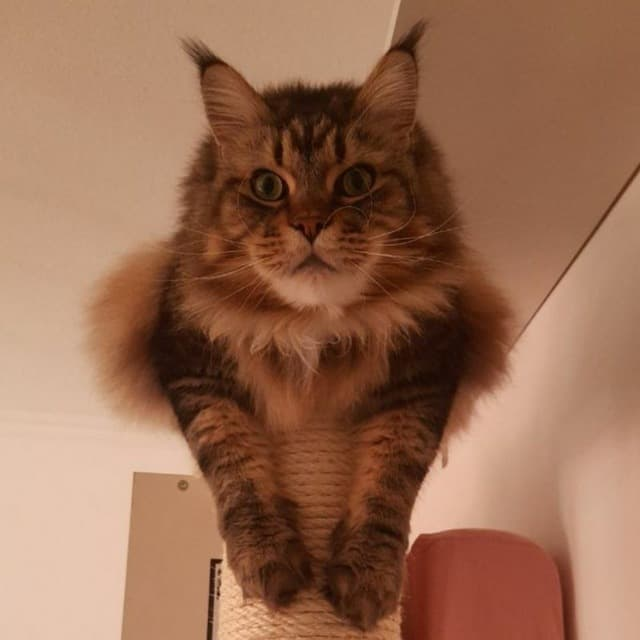
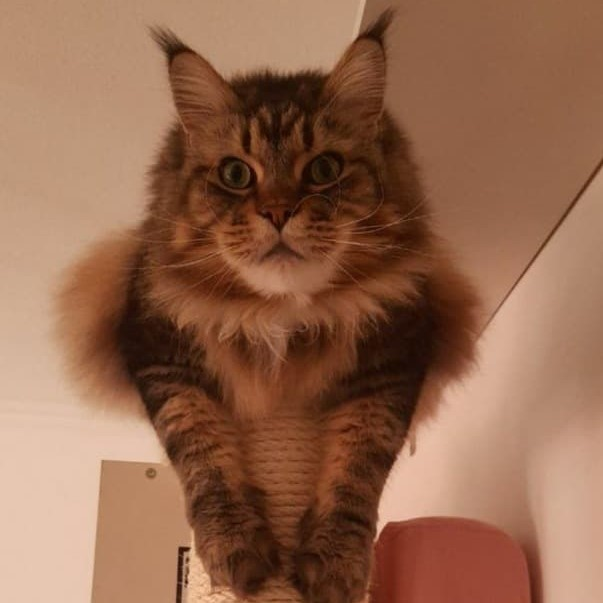
fix cats

diff --git a/_pages/.ipynb_checkpoints/cats-checkpoint.md b/_pages/.ipynb_checkpoints/cats-checkpoint.md
@@ -5,35 +5,35 @@ author_profile: true
 ---
 
 <p float="left">
-<img src="..\images\cat(2).jpg" alt="cat(2).jpg" width="200" height="200"> <img src="..\images\cat(14).jpg" alt="cat(14).jpg" width="200" height="200"> <img src="..\images\cat(11).jpg" alt="cat(11).jpg" width="200" height="200"> 
+<img src="..\images\cat(2).jpg" alt="cat(2).jpg" width="250" height="250"> <img src="..\images\cat(14).jpg" alt="cat(14).jpg" width="250" height="250"> <img src="..\images\cat(11).jpg" alt="cat(11).jpg" width="250" height="250"> 
 </p>
 
 <p float="left">
-<img src="..\images\cat(15).jpg" alt="cat(15).jpg" width="200" height="200"> <img src="..\images\cat(32).jpg" alt="cat(32).jpg" width="200" height="200"> <img src="..\images\cat(16).jpg" alt="cat(16).jpg" width="200" height="200"> 
+<img src="..\images\cat(15).jpg" alt="cat(15).jpg" width="250" height="250"> <img src="..\images\cat(32).jpg" alt="cat(32).jpg" width="250" height="250"> <img src="..\images\cat(16).jpg" alt="cat(16).jpg" width="250" height="250"> 
 </p>
 
 <p float="left">
-<img src="..\images\cat(31a).jpg" alt="cat(31a).jpg" width="200" height="200"> <img src="..\images\cat(31).jpg" alt="cat(31).jpg" width="200" height="200"> <img src="..\images\cat(9).jpg" alt="cat(9).jpg" width="200" height="200"> 
+<img src="..\images\cat(31a).jpg" alt="cat(31a).jpg" width="250" height="250"> <img src="..\images\cat(31).jpg" alt="cat(31).jpg" width="250" height="250"> <img src="..\images\cat(9).jpg" alt="cat(9).jpg" width="250" height="250"> 
 </p>
 
 <p float="left">
-<img src="..\images\cat(29).jpg" alt="cat(29).jpg" width="200" height="200"> <img src="..\images\cat(28).jpg" alt="cat(28).jpg" width="200" height="200"> <img src="..\images\cat(27).jpg" alt="cat(27).jpg" width="200" height="200"> 
+<img src="..\images\cat(29).jpg" alt="cat(29).jpg" width="250" height="250"> <img src="..\images\cat(28).jpg" alt="cat(28).jpg" width="250" height="250"> <img src="..\images\cat(27).jpg" alt="cat(27).jpg" width="250" height="250"> 
 </p>
 
 <p float="left">
-<img src="..\images\cat(5).jpg" alt="cat(5).jpg" width="200" height="200"> <img src="..\images\cat(3).jpg" alt="cat(3).jpg" width="200" height="200"> <img src="..\images\cat(24).jpg" alt="cat(24).jpg" width="200" height="200">
+<img src="..\images\cat(5).jpg" alt="cat(5).jpg" width="250" height="250"> <img src="..\images\cat(3).jpg" alt="cat(3).jpg" width="250" height="250"> <img src="..\images\cat(24).jpg" alt="cat(24).jpg" width="250" height="250">
 </p>
 
 <p float="left">
-<img src="..\images\cat(20).jpg" alt="cat(20).jpg" width="200" height="200"> <img src="..\images\cat(19).jpg" alt="cat(19).jpg" width="200" height="200"> <img src="..\images\cat(17).jpg" alt="cat(17).jpg" width="200" height="200"> 
+<img src="..\images\cat(20).jpg" alt="cat(20).jpg" width="250" height="250"> <img src="..\images\cat(19).jpg" alt="cat(19).jpg" width="250" height="250"> <img src="..\images\cat(17).jpg" alt="cat(17).jpg" width="250" height="250"> 
 </p>
 
-<img src="..\images\cat(13).jpg" alt="cat(13).jpg" width="200" height="200"> <img src="..\images\cat(23).jpg" alt="cat(23).jpg" width="200" height="200"> <img src="..\images\cat(22).jpg" alt="cat(22).jpg" width="200" height="200"> </p>
+<img src="..\images\cat(13).jpg" alt="cat(13).jpg" width="250" height="250"> <img src="..\images\cat(23).jpg" alt="cat(23).jpg" width="250" height="250"> <img src="..\images\cat(22).jpg" alt="cat(22).jpg" width="250" height="250"> </p>
 
 <p float="left">
-<img src="..\images\cat(6).jpg" alt="cat(6).jpg" width="200" height="200"> <img src="..\images\cat(1).jpg" alt="cat(1).jpg" width="200" height="200"> <img src="..\images\cat(26).jpg" alt="cat(26).jpg" width="200" height="200">
+<img src="..\images\cat(6).jpg" alt="cat(6).jpg" width="250" height="250"> <img src="..\images\cat(1).jpg" alt="cat(1).jpg" width="250" height="250"> <img src="..\images\cat(26).jpg" alt="cat(26).jpg" width="250" height="250">
 </p>
 
 <p float="left">
-<img src="..\images\cat(25).jpg" alt="cat(25).jpg" width="200" height="200"> <img src="..\images\cat(7).jpg" alt="cat(7).jpg" width="200" height="200"> <img src="..\images\cat(10).jpg" alt="cat(10).jpg" width="200" height="200"> 
+<img src="..\images\cat(25).jpg" alt="cat(25).jpg" width="250" height="250"> <img src="..\images\cat(7).jpg" alt="cat(7).jpg" width="250" height="250"> <img src="..\images\cat(10).jpg" alt="cat(10).jpg" width="250" height="250"> 
 </p>

diff --git a/_pages/cats.md b/_pages/cats.md
@@ -5,35 +5,35 @@ author_profile: true
 ---
 
 <p float="left">
-<img src="..\images\cat(2).jpg" alt="cat(2).jpg" width="200" height="200"> <img src="..\images\cat(14).jpg" alt="cat(14).jpg" width="200" height="200"> <img src="..\images\cat(11).jpg" alt="cat(11).jpg" width="200" height="200"> 
+<img src="..\images\cat(2).jpg" alt="cat(2).jpg" width="250" height="250"> <img src="..\images\cat(14).jpg" alt="cat(14).jpg" width="250" height="250"> <img src="..\images\cat(11).jpg" alt="cat(11).jpg" width="250" height="250"> 
 </p>
 
 <p float="left">
-<img src="..\images\cat(15).jpg" alt="cat(15).jpg" width="200" height="200"> <img src="..\images\cat(32).jpg" alt="cat(32).jpg" width="200" height="200"> <img src="..\images\cat(16).jpg" alt="cat(16).jpg" width="200" height="200"> 
+<img src="..\images\cat(15).jpg" alt="cat(15).jpg" width="250" height="250"> <img src="..\images\cat(32).jpg" alt="cat(32).jpg" width="250" height="250"> <img src="..\images\cat(16).jpg" alt="cat(16).jpg" width="250" height="250"> 
 </p>
 
 <p float="left">
-<img src="..\images\cat(31a).jpg" alt="cat(31a).jpg" width="200" height="200"> <img src="..\images\cat(31).jpg" alt="cat(31).jpg" width="200" height="200"> <img src="..\images\cat(9).jpg" alt="cat(9).jpg" width="200" height="200"> 
+<img src="..\images\cat(31a).jpg" alt="cat(31a).jpg" width="250" height="250"> <img src="..\images\cat(31).jpg" alt="cat(31).jpg" width="250" height="250"> <img src="..\images\cat(9).jpg" alt="cat(9).jpg" width="250" height="250"> 
 </p>
 
 <p float="left">
-<img src="..\images\cat(29).jpg" alt="cat(29).jpg" width="200" height="200"> <img src="..\images\cat(28).jpg" alt="cat(28).jpg" width="200" height="200"> <img src="..\images\cat(27).jpg" alt="cat(27).jpg" width="200" height="200"> 
+<img src="..\images\cat(29).jpg" alt="cat(29).jpg" width="250" height="250"> <img src="..\images\cat(28).jpg" alt="cat(28).jpg" width="250" height="250"> <img src="..\images\cat(27).jpg" alt="cat(27).jpg" width="250" height="250"> 
 </p>
 
 <p float="left">
-<img src="..\images\cat(5).jpg" alt="cat(5).jpg" width="200" height="200"> <img src="..\images\cat(3).jpg" alt="cat(3).jpg" width="200" height="200"> <img src="..\images\cat(24).jpg" alt="cat(24).jpg" width="200" height="200">
+<img src="..\images\cat(5).jpg" alt="cat(5).jpg" width="250" height="250"> <img src="..\images\cat(3).jpg" alt="cat(3).jpg" width="250" height="250"> <img src="..\images\cat(24).jpg" alt="cat(24).jpg" width="250" height="250">
 </p>
 
 <p float="left">
-<img src="..\images\cat(20).jpg" alt="cat(20).jpg" width="200" height="200"> <img src="..\images\cat(19).jpg" alt="cat(19).jpg" width="200" height="200"> <img src="..\images\cat(17).jpg" alt="cat(17).jpg" width="200" height="200"> 
+<img src="..\images\cat(20).jpg" alt="cat(20).jpg" width="250" height="250"> <img src="..\images\cat(19).jpg" alt="cat(19).jpg" width="250" height="250"> <img src="..\images\cat(17).jpg" alt="cat(17).jpg" width="250" height="250"> 
 </p>
 
-<img src="..\images\cat(13).jpg" alt="cat(13).jpg" width="200" height="200"> <img src="..\images\cat(23).jpg" alt="cat(23).jpg" width="200" height="200"> <img src="..\images\cat(22).jpg" alt="cat(22).jpg" width="200" height="200"> </p>
+<img src="..\images\cat(13).jpg" alt="cat(13).jpg" width="250" height="250"> <img src="..\images\cat(23).jpg" alt="cat(23).jpg" width="250" height="250"> <img src="..\images\cat(22).jpg" alt="cat(22).jpg" width="250" height="250"> </p>
 
 <p float="left">
-<img src="..\images\cat(6).jpg" alt="cat(6).jpg" width="200" height="200"> <img src="..\images\cat(1).jpg" alt="cat(1).jpg" width="200" height="200"> <img src="..\images\cat(26).jpg" alt="cat(26).jpg" width="200" height="200">
+<img src="..\images\cat(6).jpg" alt="cat(6).jpg" width="250" height="250"> <img src="..\images\cat(1).jpg" alt="cat(1).jpg" width="250" height="250"> <img src="..\images\cat(26).jpg" alt="cat(26).jpg" width="250" height="250">
 </p>
 
 <p float="left">
-<img src="..\images\cat(25).jpg" alt="cat(25).jpg" width="200" height="200"> <img src="..\images\cat(7).jpg" alt="cat(7).jpg" width="200" height="200"> <img src="..\images\cat(10).jpg" alt="cat(10).jpg" width="200" height="200"> 
+<img src="..\images\cat(25).jpg" alt="cat(25).jpg" width="250" height="250"> <img src="..\images\cat(7).jpg" alt="cat(7).jpg" width="250" height="250"> <img src="..\images\cat(10).jpg" alt="cat(10).jpg" width="250" height="250"> 
 </p>
